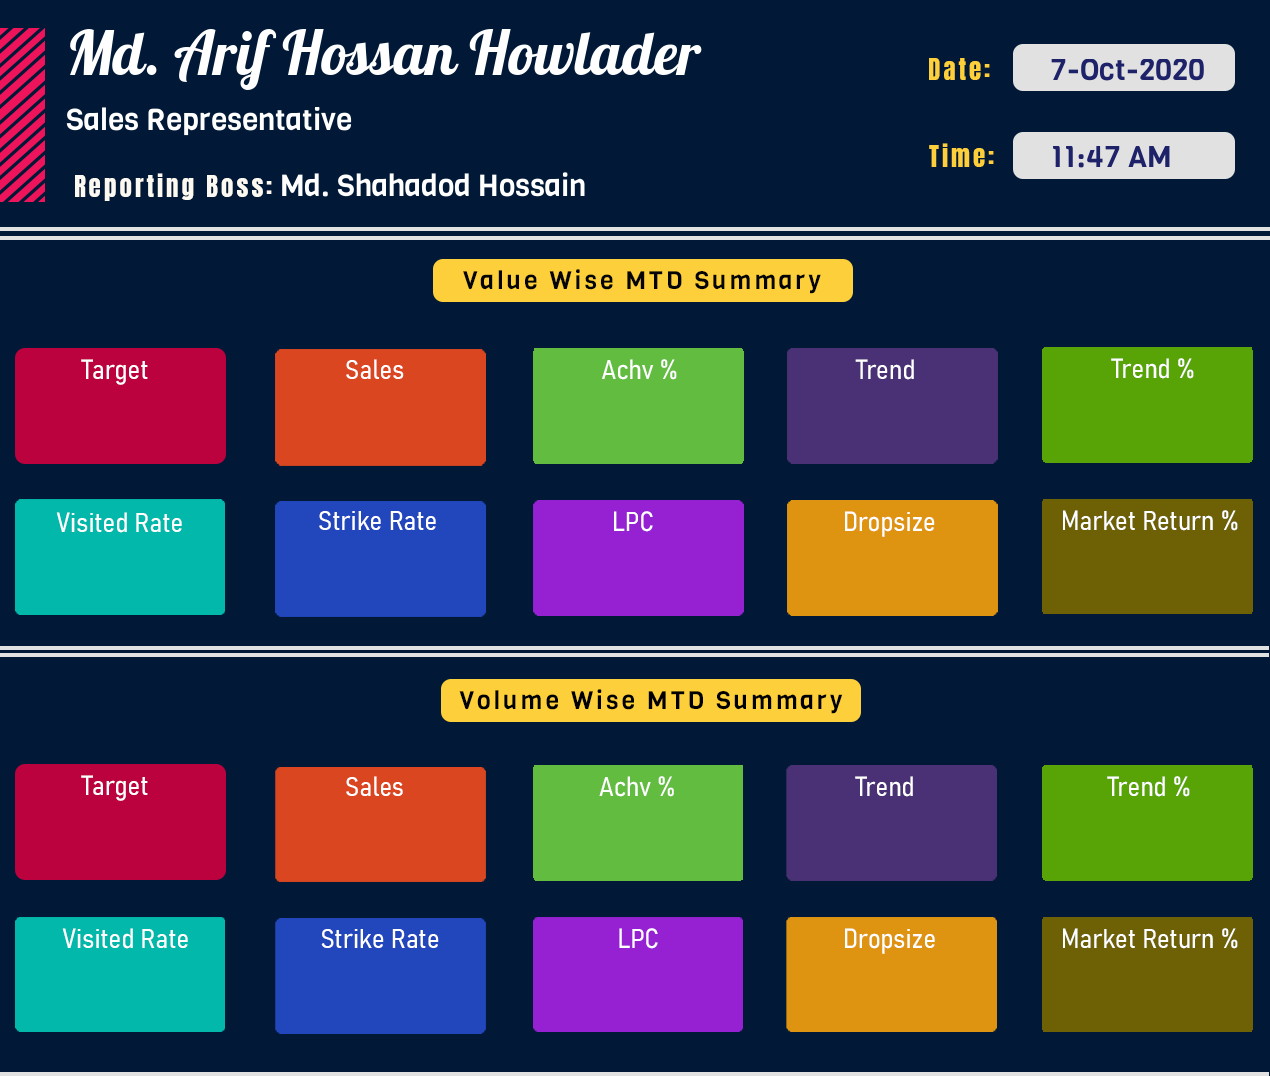
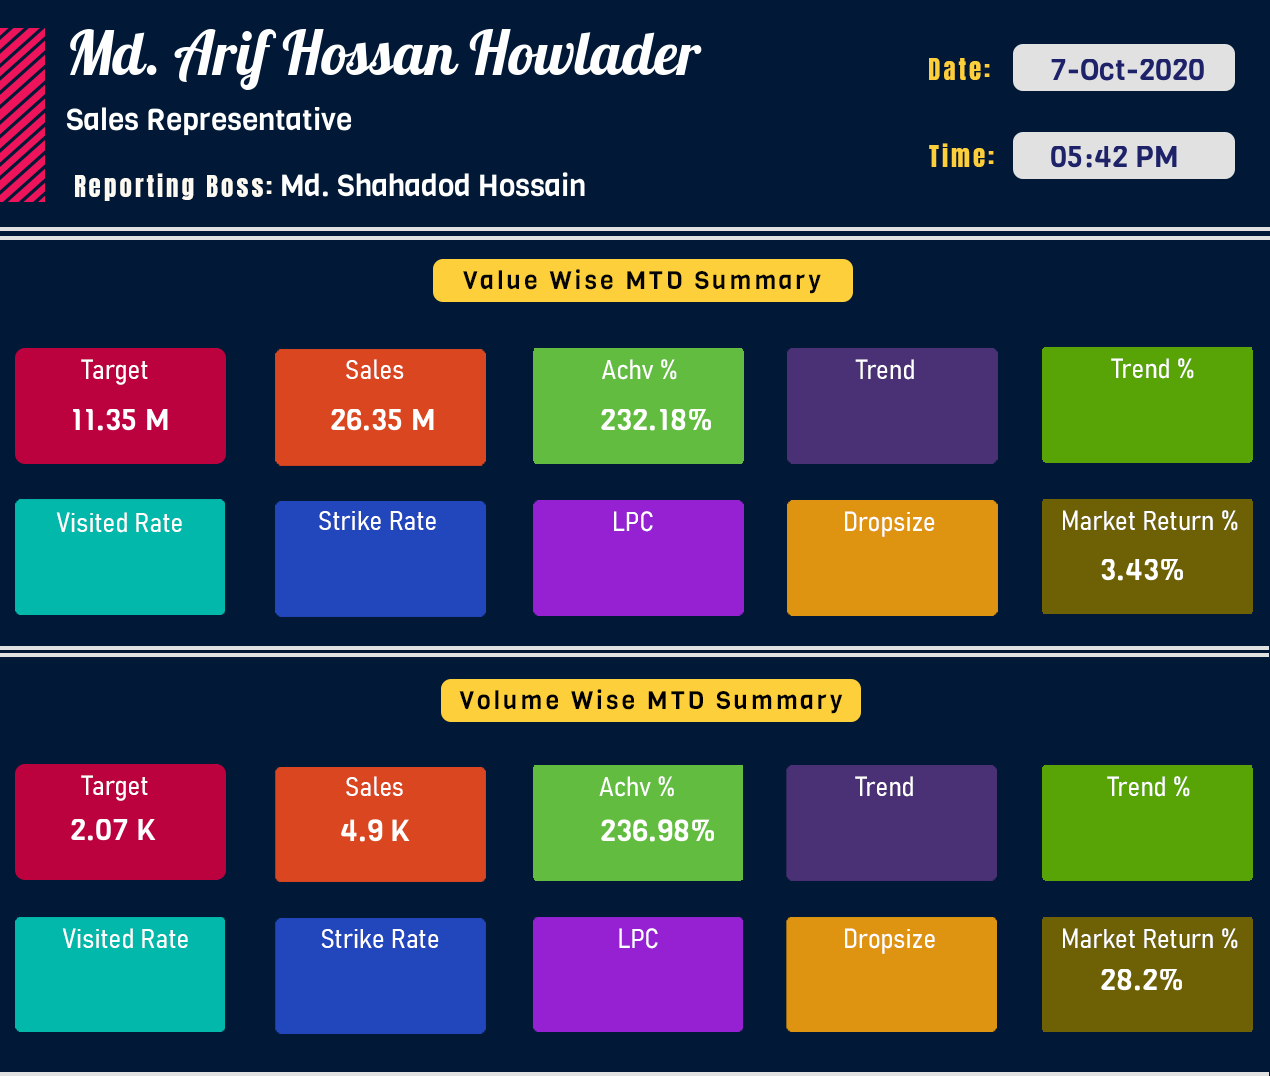
add data in the dashboard.png

diff --git a/Functions/kpi.py b/Functions/kpi.py
@@ -10,52 +10,68 @@ conn = db.connect('DRIVER={SQL Server};'
                   'UID=sa;'
                   'PWD=erp;')
 
+def currency_converter(num):
+    num_size = len(str(num))
+    if num_size >= 8:
+        number = str(round((num / 10000000), 2))+' Cr'
+    elif num_size >= 6:
+        number = str(round(num / 100000, 2))+' M'
+    elif num_size >= 4:
+        number = str(round(num / 1000, 2)) +' K'
+    else:
+        number = num
+    return number
+
 # # -------- Total value and Weight Target  -----------------------------------
 # # ---------------------------------------------------------------------------
-# target_df = pd.read_sql_query(""" select  isnull(sum(targetvalue), 0) as TargetVal,
-#                 sum((targetqty)*Weight)/1000 as TargetKg
-#                 from TargetDistributionItemBySR
-#                 left join Hierarchy_SKU
-#                 on TargetDistributionItemBySR.SKUID =Hierarchy_SKU.SKUID
-#                 where srid = '22'and yearmonth = 202009 --convert(varchar(6),DATEADD(D,0,GETDATE()),112)
-#                 """, conn)
-#
-# total_val_target = int(target_df.TargetVal)
-# total_weight_target = int(target_df.TargetKg)
-#
+target_df = pd.read_sql_query(""" select  isnull(sum(targetvalue), 0) as TargetVal,
+            isnull(sum((targetqty)*Weight)/1000, 0) as TargetKg
+            from TargetDistributionItemBySR
+            left join Hierarchy_SKU
+            on TargetDistributionItemBySR.SKUID =Hierarchy_SKU.SKUID
+            where srid = '22'and yearmonth = 202009 --convert(varchar(6),DATEADD(D,0,GETDATE()),112)
+                            """, conn)
+
+total_val_target = int(target_df.TargetVal)
+total_weight_target = int(target_df.TargetKg)
+
+
+
 # # ---------- Total Sales in KG and Values -----------------------------------------
 # # ---------------------------------------------------------------------------------
 #
-# total_sales_df = pd.read_sql_query(""" select SUM(Quantity*Weight)/1000 as SalesKg, sum(Quantity*InvoicePrice) as SalesVal from
-#                 (select item.*,SRID, InvoiceDate, Weight from
-#                 (select invoiceid, InvoiceDate , SRID from SalesInvoices where InvoiceDate between convert(varchar(10),DATEADD(mm, DATEDIFF(mm, 0, GETDATE()), 0),126)
-#                 and convert(varchar(10),DATEADD(D,0,GETDATE()),126)
-#                 ) as Sales
-#                 inner join
-#                 (select invoiceid,Quantity, InvoicePrice, skuid from SalesInvoiceItem) as item
-#                 on sales.invoiceid=item.invoiceid
-#                 left join Hierarchy_SKU
-#                 on item.SKUID = Hierarchy_SKU.SKUID
-#                 ) as tbl""", conn)
-#
-# total_val_sales = int(total_sales_df.SalesVal)
-# total_weight_sales = int(total_sales_df.SalesKg)
+total_sales_df = pd.read_sql_query(""" select SUM(Quantity*Weight)/1000 as SalesKg, sum(Quantity*InvoicePrice) as SalesVal from
+                (select item.*,SRID, InvoiceDate, Weight from
+                (select invoiceid, InvoiceDate , SRID from SalesInvoices 
+                where srid=22 and InvoiceDate between convert(varchar(10),DATEADD(mm, DATEDIFF(mm, 0, GETDATE()), 0),126)
+                and convert(varchar(10),DATEADD(D,0,GETDATE()),126)
+                ) as Sales
+                inner join
+                (select invoiceid,Quantity, InvoicePrice, skuid from SalesInvoiceItem) as item
+                on sales.invoiceid=item.invoiceid
+                left join Hierarchy_SKU
+                on item.SKUID = Hierarchy_SKU.SKUID
+                ) as tbl """, conn)
+
+total_val_sales = int(total_sales_df.SalesVal)
+total_weight_sales = int(total_sales_df.SalesKg)
+
 #
 # # ------------------- Total Returns in Kg and Values ----------------------------------
 # # -------------------------------------------------------------------------------------
-#
-# return_df = pd.read_sql_query(""" select sum(Quantity*InvoicePrice) as ReturnVal , sum(Quantity*Weight)/100 as ReturnKg from MarketReturns
-#             left join
-#             MarketReturnItem
-#             on MarketReturns.MarketReturnID = MarketReturnItem.MarketReturnID
-#             left join Hierarchy_SKU
-#             on MarketReturnItem.SKUID = Hierarchy_SKU.SKUID
-#             where SRID=22
-#
-#                         """, conn)
-# total_val_return = sum(return_df.ReturnVal)
-# total_weight_return = sum(return_df.ReturnKg)
-#
+
+return_df = pd.read_sql_query(""" select sum(Quantity*InvoicePrice) as ReturnVal , sum(Quantity*Weight)/100 as ReturnKg from MarketReturns
+            left join
+            MarketReturnItem
+            on MarketReturns.MarketReturnID = MarketReturnItem.MarketReturnID
+            left join Hierarchy_SKU
+            on MarketReturnItem.SKUID = Hierarchy_SKU.SKUID
+            where SRID=22
+
+                        """, conn)
+total_val_return = sum(return_df.ReturnVal)
+total_weight_return = sum(return_df.ReturnKg)
+
 # sales_achievement = (total_val_sales / total_val_target) * 100
 # weight_achievement = (total_weight_sales / total_weight_target) * 100
 #
@@ -117,8 +133,8 @@ conn = db.connect('DRIVER={SQL Server};'
 # # -------------------------------------------------------------------------------
 
 profile_df = pd.read_sql_query(""" select t1.SRID,t1.SRName,t2.SRDESIGNATION, t1.ReportingBoss, t1.Brand, 
-            t1.BrandName,t1.TargetVal,t2.SalesVal, t1.TargetQty,t2.SalesQty from
-            (select A.SRID, SRSNAME as SRName, ASENAME as 'ReportingBoss',-- B.SKUID ,
+            t1.BrandName,t1.TargetVal,t2.SalesVal,T2.SalesKg, t1.TargetQty,t2.SalesQty from
+            (select A.SRID, SRSNAME as SRName, ASENAME as 'ReportingBoss', -- B.SKUID ,
             --ShortName as SKUName
             B.Brand as Brand, BrandName, sum(TargetVal) as TargetVal , sum(TargetQty) as TargetQty
             from
@@ -139,7 +155,7 @@ profile_df = pd.read_sql_query(""" select t1.SRID,t1.SRName,t2.SRDESIGNATION, t1
             left join
             (
             select a.srid,b.SRNAME,ltrim(rtrim(brandname)) as BrandName,b.SRDESIGNATION,
-            SUM(Quantity) as SalesQty, sum(Quantity*InvoicePrice) as SalesVal from
+            SUM(Quantity) as SalesQty, sum(Quantity*InvoicePrice) as SalesVal,  SUM(Quantity*Weight)/1000 as SalesKg from
             (select item.*,SRID from
             (select * from SalesInvoices where InvoiceDate>='1 aug 2020') as Sales
             inner join
@@ -163,4 +179,6 @@ sr_name = profile_df.SRName.loc[0]
 reporting_boss = profile_df.ReportingBoss.loc[0]
 total_brand = profile_df.Brand.count()
 designation = profile_df.SRDESIGNATION.loc[0]
+sales_val = int(sum(profile_df.SalesVal))
+sales_kg = int(sum(profile_df.SalesKg))
 

diff --git a/Functions/dashboard.py b/Functions/dashboard.py
@@ -31,6 +31,19 @@ desig = ImageDraw.Draw(img)
 boss = ImageDraw.Draw(img)
 dateL = ImageDraw.Draw(img)
 timeL = ImageDraw.Draw(img)
+targetL = ImageDraw.Draw(img)
+salesL = ImageDraw.Draw(img)
+achivL = ImageDraw.Draw(img)
+returnL = ImageDraw.Draw(img)
+
+
+# # ------- Weight Pointer ----------------------
+wTargetL = ImageDraw.Draw(img)
+wSalesL = ImageDraw.Draw(img)
+achivL = ImageDraw.Draw(img)
+returnL = ImageDraw.Draw(img)
+
+# # ---------------------------------------------
 
 Stencil_Regular = ImageFont.truetype("../font_styles/Lobster-Regular.ttf", 60, encoding="unic")
 Viga = ImageFont.truetype("../font_styles/Viga-Regular.ttf", 30, encoding="unic")
@@ -39,12 +52,40 @@ Name = kpi.sr_name
 designation = kpi.designation
 reporting_boss = kpi.reporting_boss
 
+# # ------------ Profile section ---------------------------------
 name.text((66, 15), Name , (255, 255, 255), font=Stencil_Regular)
 desig.text((66, 100), designation , (255, 255, 255), font=Viga)
 boss.text((280, 165), reporting_boss , (255, 255, 255), font=Viga)
-
-
 dateL.text((1050, 50), str(day) , (29, 34, 105), font=Viga)
 timeL.text((1050, 137), str(time) , (29, 34, 105), font=Viga)
-# timestore.text((25, 435), time + "\n" + day, (255, 255, 255), font=font2)
+
+# # ------ Value Section  ----------------------------------------
+target = kpi.currency_converter(kpi.total_val_target)
+sales = kpi.currency_converter(kpi.sales_val)
+achiv = round((kpi.sales_val/kpi.total_val_target)*100, 2)
+
+targetL.text((70, 400),  str(target) , (255, 255, 255), font=Viga)
+salesL.text((330, 400),  str(sales) , (255, 255, 255), font=Viga)
+achivL.text((600, 400),  str(achiv) +"%", (255, 255, 255), font=Viga)
+
+
+val_return_p = round((kpi.total_val_return/kpi.sales_val)*100, 2)
+returnL.text((1100, 550),  str(val_return_p) +"%", (255, 255, 255), font=Viga)
+
+
+
+# # --------- Weight wise KPI -------------------------------------------
+Wtarget = kpi.currency_converter(kpi.total_weight_target)
+WSalesKg = kpi.currency_converter(kpi.sales_kg)
+achivKg = round((kpi.sales_kg/kpi.total_weight_target)*100, 2)
+kg_return_p = round((kpi.total_weight_return/kpi.sales_kg)*100, 2)
+
+
+wTargetL.text((70, 810),  Wtarget, (255, 255, 255), font=Viga)
+wSalesL.text((340, 810),  WSalesKg, (255, 255, 255), font=Viga)
+achivL.text((600, 810),  str(achivKg) +"%", (255, 255, 255), font=Viga)
+returnL.text((1100, 960),  str(kg_return_p) +"%", (255, 255, 255), font=Viga)
+
+
+
 img.save('../Images/dashboard.png')

diff --git a/test.py b/test.py
@@ -24,4 +24,22 @@ def Cumulative(val):
 
 
 cumulativeTarget = Cumulative(cu)
-print(cumulativeTarget[:int(current_day)])
+
+
+# print(cumulativeTarget[:int(current_day)])
+
+
+def currency_converter(num):
+    num_size = len(str(num))
+    if num_size >= 8:
+        number = str(round((num / 10000000), 2))+' Cr'
+    elif num_size >= 6:
+        number = str(round(num / 100000, 2))+' M'
+    elif num_size >= 4:
+        number = str(round(num / 1000, 2)) +' K'
+    else:
+        number = num
+    return number
+
+
+print(currency_converter(1135040))
